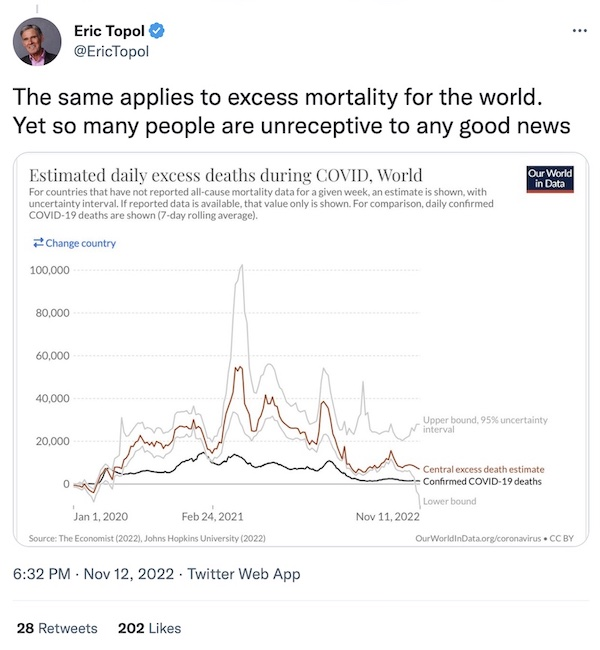
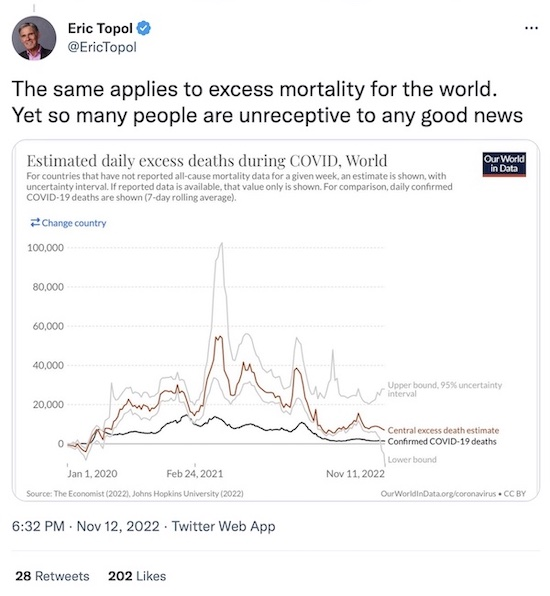
De-twitter with screenshots and links, in case Twitter goes down in flames

diff --git a/_posts/2022-08-31-fda-bivalent-omicron-eua.md b/_posts/2022-08-31-fda-bivalent-omicron-eua.md
@@ -15,15 +15,7 @@ bivalent COVID-19 vaccines for classic and Omicron/BA.4/5 variants.
 The redoubtable Helen Branswell and Matthew Herper of _STAT News_ are on the case.
 Branswell's tweet first alerted us:  
 
-<blockquote class="twitter-tweet">
-  <p lang="en" dir="ltr">
-    .<a href="https://twitter.com/US_FDA?ref_src=twsrc%5Etfw">@US_FDA</a> has issued EUAs
-	for the updated Pfizer and Moderna Covid boosters, the bivalent shots containing an
-	Omicron strain. <a href="https://twitter.com/matthewherper?ref_src=twsrc%5Etfw">@matthewherper</a>
-	reports. <a href="https://t.co/MgcyuqYTE0">https://t.co/MgcyuqYTE0</a> 
-  </p>&mdash; Helen Branswell 🇺🇦 (@HelenBranswell) <a href="https://twitter.com/HelenBranswell/status/1564976001217695747?ref_src=twsrc%5Etfw">August 31, 2022</a>
-</blockquote>
-<script async src="https://platform.twitter.com/widgets.js"></script>
+<a href="https://twitter.com/HelenBranswell/status/1564976001217695747"><img src="{{ site.baseurl }}/images/2022-08-31-fda-bivalent-omicron-eua-twitter-1.jpg" width="550" height="661" alt="Branswell @ Twitter: FDA EUA's bivalent vaccines" title="Branswell @ Twitter: FDA EUA's bivalent vaccines"></a>
 
 <img src="{{ site.baseurl }}/images/2022-08-31-fda-bivalent-omicron-eua-stat-1.jpg" width="400" height="188" alt="Herper @ STAT News: FDA EUA's bivalent classic/Omicron COVID-19 vaccine boosters" title="Herper @ STAT News: FDA EUA's bivalent classic/Omicron COVID-19 vaccine boosters" style="float: right; margin: 3px 3px 3px 3px; border: 1px solid #000000;">
 <img src="{{ site.baseurl }}/images/2022-08-31-fda-bivalent-omicron-eua-fda-1.jpg" width="400" height="341" alt="FDA: EUA of bivalent classic/Omicron COVID-19 vaccine boosters" title="FDA: EUA of bivalent classic/Omicron COVID-19 vaccine boosters" style="float: right; margin: 3px 3px 3px 3px; border: 1px solid #000000;">
@@ -103,17 +95,10 @@ But then&hellip; vax us up!
 
 ## Addendum 2022-Aug-31, afternoon  
 
-Eric Topol points out a preprint that dropped on _medR&chi;iv_ today <sup id="fn5a">[[5]](#fn5)</sup>:  
+The indispensable Eric Topol points out a preprint that dropped on _medR&chi;iv_
+today <sup id="fn5a">[[5]](#fn5)</sup>:  
 
-<blockquote class="twitter-tweet">
-  <p lang="en" dir="ltr">
-    Relevant to new BA.5 boosters for people with recent infection &lt; 2 months<br>
-    &quot;B-cell responses to booster vaccines are impeded by recent infection&quot;
-    <a href="https://t.co/DPVUaDpbOJ">https://t.co/DPVUaDpbOJ</a>
-    <a href="https://t.co/ukCiEzSIi2">pic.twitter.com/ukCiEzSIi2</a>
-  </p>&mdash; Eric Topol (@EricTopol) <a href="https://twitter.com/EricTopol/status/1565007310551801856?ref_src=twsrc%5Etfw">August 31, 2022</a>
-</blockquote>
-<script async src="https://platform.twitter.com/widgets.js"></script>
+<a href="https://twitter.com/EricTopol/status/1565007310551801856"><img src="{{ site.baseurl }}/images/2022-08-31-fda-bivalent-omicron-eua-twitter-2.jpg" width="550" height="664" alt="Topol @ Twitter: Recent infection impairs vaccine response" title="Topol @ Twitter: Recent infection impairs vaccine response"></a>
 
 So basically recent (&lt; 2 months) COVID-19 infection impairs B-cell responses induced by
 the new BA.5 booster.  
@@ -134,19 +119,7 @@ Our trusty safari guide, Helen Branswell of _STAT News_, is live-tweeting the me
 the CDC Advisory Committee on Immunization Practices to set practice recommendations for
 the bivalent classic/Omicron vaccines:  
 
-<blockquote class="twitter-tweet">
-  <p lang="en" dir="ltr">
-    1. <a href="https://twitter.com/hashtag/ACIP?src=hash&amp;ref_src=twsrc%5Etfw">#ACIP</a> is
-	meeting today to decide on whether to recommend use of the the bivalent Covid
-	vaccines. It was first posted as a 2-day meeting but they now expect it to be a 1-day
-	meeting.<br>
-
-    I will be live tweeting.<br>
-
-    The meeting is being streamed here: <a href="https://t.co/rsFDXVwBUY">https://t.co/rsFDXVwBUY</a> 
-  </p>&mdash; Helen Branswell 🇺🇦 (@HelenBranswell) <a href="https://twitter.com/HelenBranswell/status/1565339759068991494?ref_src=twsrc%5Etfw">September 1, 2022</a>
-</blockquote>
-<script async src="https://platform.twitter.com/widgets.js"></script>
+<a href="https://twitter.com/HelenBranswell/status/1565339759068991494"><img src="{{ site.baseurl }}/images/2022-08-31-fda-bivalent-omicron-eua-twitter-3.jpg" width="550" height="527" alt="Branswell @ Twitter: CDC ACIP meeting" title="Branswell @ Twitter: CDC ACIP meeting"></a>
 
 I'm not gonna trawl through all the primary presentations myself, this time.
 (Post-COVID-19 brain fog, you know.  But if you want to make your own deep dive, then top
@@ -258,15 +231,7 @@ Some interesting highlights from her Twitter thread:
 And, that's it: approval 13-1 with 1 absence, and a reasonable set of practice
 guidelines for both vaccines:  
 
-<blockquote class="twitter-tweet">
-  <p lang="en" dir="ltr">
-    62. <a href="https://twitter.com/hashtag/ACIP?src=hash&amp;ref_src=twsrc%5Etfw">#ACIP</a>
-	votes 13 - 1 to recommend use of the Moderna bivalent Covid booster for people 18 and older. <br>
-
-    The only person who voted against was Pablo Sánchez. <a href="https://t.co/CgdHKOrrPN">pic.twitter.com/CgdHKOrrPN</a>
-  </p>&mdash; Helen Branswell 🇺🇦 (@HelenBranswell) <a href="https://twitter.com/HelenBranswell/status/1565456899151208451?ref_src=twsrc%5Etfw">September 1, 2022</a>
-</blockquote>
-<script async src="https://platform.twitter.com/widgets.js"></script>
+<a href="https://twitter.com/HelenBranswell/status/1565456899151208451"><img src="{{ site.baseurl }}/images/2022-08-31-fda-bivalent-omicron-eua-twitter-4.jpg" width="550" height="970" alt="Branswell @ Twitter: CDC ACIP votes on bivalent vaccines" title="Branswell @ Twitter: CDC ACIP votes on bivalent vaccines"></a>
 
 Honestly, I was _really_ surprised they worried so much about a human trial,
 in spite of the fact that _this very committee_ handles flu vaccine updates every year in
@@ -317,13 +282,7 @@ past our (current) COVID-19 recovery!
 All my American readers of a certain age were thinking this.  But Branswell decided to
 just go ahead &amp; say the quiet part out loud in tweet #63:  
 
-<blockquote class="twitter-tweet">
-  <p lang="en" dir="ltr">
-    63. <a href="https://twitter.com/hashtag/ACIP?src=hash&amp;ref_src=twsrc%5Etfw">#ACIP</a>
-    is done! <a href="https://t.co/CeuyndzRdG">pic.twitter.com/CeuyndzRdG</a>
-  </p>&mdash; Helen Branswell 🇺🇦 (@HelenBranswell) <a href="https://twitter.com/HelenBranswell/status/1565459059809083392?ref_src=twsrc%5Etfw">September 1, 2022</a>
-</blockquote>
-<script async src="https://platform.twitter.com/widgets.js"></script>
+<a href="https://twitter.com/HelenBranswell/status/1565459059809083392"><img src="{{ site.baseurl }}/images/2022-08-31-fda-bivalent-omicron-eua-twitter-5.jpg" width="550" height="1036" alt="Branswell @ Twitter: That's all, folks?!" title="Branswell @ Twitter: That's all, folks?!"></a>
 
 Sums it up.  
 

diff --git a/_posts/2022-08-29-authoritarian-cops.md b/_posts/2022-08-29-authoritarian-cops.md
@@ -208,16 +208,9 @@ some news items from just this month:
   Here's one person re-Tweeting it, to preserve the evidence (__NB:__ disturbing video of
   3 cops holding down a handcuffed prisoner, beating his head against concrete):  
 
-  <blockquote class="twitter-tweet">
-    <p lang="en" dir="ltr">
-      This just went down in Mulberry, AR, unfortunately, due to DMCA rules i had to mute
-      the video (metallic was playing in the background) the people filming screamed at the
-      cops towards the end they pretty much told them to shut up. will link the OP in the
-      next tweet.
-      <a href="https://t.co/cF3797sV0e">pic.twitter.com/cF3797sV0e</a>
-    </p>&mdash; 🥀_Imposter_🕸 (@Imposter_Edits) <a href="https://twitter.com/Imposter_Edits/status/1561473046833233920?ref_src=twsrc%5Etfw">August 21, 2022</a>
-  </blockquote>
- <script async src="https://platform.twitter.com/widgets.js"></script>
+  <a href="https://twitter.com/Imposter_Edits/status/1561473046833233920">
+	<img src="{{ site.baseurl }}/images/2022-08-29-authoritarian-cops-twitter-1.jpg" width="550" height="860" alt="Twitter: cops beating handcuffed prisoner" title="Twitter: cops beating handcuffed prisoner">
+  </a>
 
   Note at the end of the video how quickly the "subject stopped resisting" once the cops
   figured out they were on video.  
@@ -347,13 +340,7 @@ When many people say things like that, you can dismiss it as just some political
 But when people whose _profession_ is to determine threats against American democracy say
 things like that&hellip; then it may be time to start paying attention:  
 
-<blockquote class="twitter-tweet">
-  <p lang="en" dir="ltr">
-    I agree. And I was the CIA Director <a href="https://t.co/LRAHDDyy4n">https://t.co/LRAHDDyy4n</a>
-  </p>&mdash; Gen Michael Hayden (@GenMhayden) 
-  <a href="https://twitter.com/GenMhayden/status/1560027626626072577?ref_src=twsrc%5Etfw">August 17, 2022</a>
-</blockquote>
-<script async src="https://platform.twitter.com/widgets.js"></script>
+<a href="https://twitter.com/GenMhayden/status/1560027626626072577"><img src="{{ site.baseurl }}/images/2022-08-29-authoritarian-cops-twitter-2.jpg" width="550" height="231" alt="Gen Michael Hayden @ Twitter: Fmr CIA director agrees authoritarian cops are threat to US" title="Gen Michael Hayden @ Twitter: Fmr CIA director agrees authoritarian cops are threat to US"></a>
 
 Now, look: I have little sympathy for the US Central Intelligence Agency or for those who
 rise high in its ranks.  They tend to hit the Machiavelli and Nietzsche way too hard,
@@ -365,15 +352,7 @@ political office, not for any conceivable reason.
 
 An elegant summary, found on Twitter via RWK:  
 
-<blockquote class="twitter-tweet">
-  <p lang="en" dir="ltr">
-    The <a href="https://twitter.com/GOP?ref_src=twsrc%5Etfw">@gop</a> are playing g
-    games. Everyone vote. Action is American. Engagement is democracy.
-    <a href="https://t.co/M0amvBwfKf">https://t.co/M0amvBwfKf</a>
-    <a href="https://t.co/WNibvGnUry">pic.twitter.com/WNibvGnUry</a>
-  </p>&mdash; MacGregorGarlic (@MacGregorGarlic) <a href="https://twitter.com/MacGregorGarlic/status/1561738610344435714?ref_src=twsrc%5Etfw">August 22, 2022</a>
-</blockquote>
-<script async src="https://platform.twitter.com/widgets.js"></script>
+<a href="https://twitter.com/MacGregorGarlic/status/1561738610344435714"><img src="{{ site.baseurl }}/images/2022-08-29-authoritarian-cops-twitter-3.jpg" width="550" height="934" alt="Twitter: High voter turnout kills the GOP" title="Twitter: High voter turnout kills the GOP"></a>
 
 
 ## Addendum 2022-Aug-29, after getting some sleep  
@@ -405,14 +384,7 @@ He later pointed out that when discussing _actual_ Nazis and fascists, Godwin's 
 not apply. Here's what he had to say about Biden's characterization of the Trump wing of
 the Republican party as "semi-fascist":  
 
-<blockquote class="twitter-tweet">
-  <p lang="en" dir="ltr">
-    People have asked me my opinion of President Biden&#39;s criticism of
-	&quot;semi-fascism.&quot; Well, I can&#39;t overstate my disapproval of the
-	inappropriate use of &quot;semi.&quot;
-  </p>&mdash; Mike Godwin (@sfmnemonic) <a href="https://twitter.com/sfmnemonic/status/1563797677082415105?ref_src=twsrc%5Etfw">August 28, 2022</a>
-</blockquote>
-<script async src="https://platform.twitter.com/widgets.js"></script>
+<a href="https://twitter.com/sfmnemonic/status/1563797677082415105"><img src="{{ site.baseurl }}/images/2022-08-29-authoritarian-cops-twitter-4.jpg" width="550" height="279" alt="Godwin @ Twitter: Disapprove of 'semi' in 'semi-fascist' to describe Trump" title="Godwin @ Twitter: Disapprove of 'semi' in 'semi-fascist' to describe Trump"></a>
 
 Ok, good snark.  But what do _serious_ scholars of fascism think?  
 

diff --git a/_posts/2022-09-23-topol-variants.md b/_posts/2022-09-23-topol-variants.md
@@ -16,14 +16,9 @@ From the indispensable Eric Topol, of
 comes some timely if unwelcome news about variants and convergent evolution of the
 COVID-19 causing virus SARS-CoV2:  
 
-<blockquote class="twitter-tweet">
-  <p lang="en" dir="ltr">
-    Here <a href="https://twitter.com/SolidEvidence?ref_src=twsrc%5Etfw">@SolidEvidence</a>
-    has mapped out their evolutionary path with a convergence of several mutations 
-    <a href="https://t.co/XEfxyTn0n0">pic.twitter.com/XEfxyTn0n0</a> 
-  </p>&mdash; Eric Topol (@EricTopol) <a href="https://twitter.com/EricTopol/status/1573314055569559553?ref_src=twsrc%5Etfw">September 23, 2022</a>
-</blockquote>
-<script async src="https://platform.twitter.com/widgets.js"></script>
+<a href="https://twitter.com/EricTopol/status/1573314055569559553">
+  <img src="{{ site.baseurl }}/images/2022-09-23-topol-variants-twitter-1.jpg" width="550" height="1075" alt="Topol @ Twitter: SARS-COV2 evolutionary path with convergence of several mutations" title="Topol @ Twitter: SARS-COV2 evolutionary path with convergence of several mutations">
+</a>
 
 <a href="{{ site.baseurl }}/images/2022-09-23-topol-variants-cdc-1.jpg"><img src="{{ site.baseurl }}/images/2022-09-23-topol-variants-cdc-1-thumb.jpg" width="400" height="303" alt="US CDC COVID-19 Data Tracker: Variants as of 2022-Sep-23" title="US CDC COVID-19 Data Tracker: Variants as of 2022-Sep-23" style="float: right; margin: 3px 3px 3px 3px; border: 1px solid #000000;"></a>
 He's quoting the nowcast data from the US Centers for Disease Control and Prevention's

diff --git a/_posts/2022-11-02-two-things-i-dont-understand.md b/_posts/2022-11-02-two-things-i-dont-understand.md
@@ -14,19 +14,18 @@ Sometimes there's nothing to do but confess one's own ignorance.
 In the last couple days, while hiding in bed avoiding my fear of a fascist turn in the
 upcoming mid-terms, a couple things have _really_ confused me:  
 
+
 1. Have you ever noticed that when you look up
    ["ineffable"](https://en.wikipedia.org/wiki/Ineffability) in the dictionary, they
    explain it by just _using more words?_  That seems wrong, somehow.  Wittgenstein had right:
    [_Wovon man nicht sprechen kann, darüber muss man schweigen,_](https://en.wikipedia.org/wiki/Tractatus_Logico-Philosophicus#Proposition_7)
-   indeed!
+   indeed!  
 2. Indeed, I will never understand economics:  
-<blockquote class="twitter-tweet">
-  <p lang="en" dir="ltr">
-    Stg long as I live I will never understand economics
-    <a href="https://t.co/7OHub5hMqN">pic.twitter.com/7OHub5hMqN</a>
-  </p>&mdash; That Sheila Strewth 🏳⚧ (@StrewthQueen) <a href="https://twitter.com/StrewthQueen/status/1587686455580557312?ref_src=twsrc%5Etfw">November 2, 2022</a>
-</blockquote>
-<script async src="https://platform.twitter.com/widgets.js"></script>
+
+<img src="{{ site.baseurl }}/images/2022-11-02-two-things-i-dont-understand-twitter-1.jpg" width="550" height="319" alt="Lions break free; interest rate rises" title="Lions break free; interest rate rises">
+
+(Quoted from Twitter, now mysteriously removed from all sources that Google can find.
+Looks like some Australian mogul got mad about being made to look like a fool?)  
 
 ---
 

diff --git a/_posts/2022-09-26-petrov-day-2022.md b/_posts/2022-09-26-petrov-day-2022.md
@@ -23,16 +23,9 @@ _heroic_ people, at that.
 
 The hero we remember today is [Stanislav Petrov](https://en.wikipedia.org/wiki/Stanislav_Petrov):  
 
-<blockquote class="twitter-tweet">
-  <p lang="en" dir="ltr">
-    Just past midnight today in 1983, thanks to "a funny feeling in my gut," 44 year-old
-	Lt. Col. Stanislav Petrov's calm assessment that a satellite warning of the launch of
-	five US Minuteman ICBMs was a false alarm likely averted a catastrophic nuclear
-	war. <a href="https://t.co/J5MrBr3XAO">https://t.co/J5MrBr3XAO</a>
-    <a href="https://t.co/2sPO4KDqON">pic.twitter.com/2sPO4KDqON</a>
-  </p>&mdash; Stephen Schwartz (@AtomicAnalyst) <a href="https://twitter.com/AtomicAnalyst/status/1442136321594511365?ref_src=twsrc%5Etfw">September 26, 2021</a>
-</blockquote> 
-<script async src="https://platform.twitter.com/widgets.js"></script>
+<a href="https://twitter.com/AtomicAnalyst/status/1442136321594511365">
+  <img src="{{ site.baseurl }}/images/2022-09-26-petrov-day-2022-twitter-1.jpg" width="550" height="859" alt="Schwartz @ Twitter: Petrov Day" title="Schwartz @ Twitter: Petrov Day">
+</a>
 
 He did the _right_ thing, not the thing he was asked.  We should celebrate this as a
 virtue.  (As we have, here on this Crummy Little Blog That Nobody Reads, a couple times

diff --git a/_posts/2022-08-04-covid-rebound.md b/_posts/2022-08-04-covid-rebound.md
@@ -262,14 +262,7 @@ say 7-10 days to tamp down on the rebounds:
   indicates, we have even more severe problems pounding the facts into MD skulls
   about how well paxlovid works:  
 
-<blockquote class="twitter-tweet">
-  <p lang="en" dir="ltr">
-    Bob, it's not a "risk" - it's real life. I spoke to several people in Florida recently
-    (not calling out Florida specifically - just telling a story), who couldn’t find a single
-    doctor who would prescribe Paxlovid, because "it doesn’t work&hellip;" 
-  </p>&mdash; Jerome Adams (@JeromeAdamsMD) <a href="https://twitter.com/JeromeAdamsMD/status/1553526582245048321?ref_src=twsrc%5Etfw">July 30, 2022</a>
-</blockquote>
-<script async src="https://platform.twitter.com/widgets.js"></script>
+<a href="https://twitter.com/JeromeAdamsMD/status/1553526582245048321"><img src="{{ site.baseurl }}/images/2022-08-04-covid-rebound-twitter-1.jpg" width="550" height="448" alt="Wachter &amp; Adams @ Twitter: Docs not prescribing paxlovid due to misinformation" title="Wachter &amp; Adams @ Twitter: Docs not prescribing paxlovid due to misinformation"></a>
 
 Maybe we need to make sure we've done at least some of the provider education needed to
 counteract disinformation and rumor, so providers will actually prescribe it, first.  

diff --git a/_posts/2022-11-12-some-covid-good-news.md b/_posts/2022-11-12-some-covid-good-news.md
@@ -14,7 +14,7 @@ We just _may_ be turning the corner.
 The indispensable [Eric Topol](https://en.wikipedia.org/wiki/Eric_Topol) draws our
 attention to the global excess mortality situation:  
 
-<a href="https://twitter.com/EricTopol/status/1591574800925097985"><img src="{{ site.baseurl }}/images/2022-11-12-some-covid-good-news-topol-1.jpg" width="600" height="650" alt="Eric Topol @ Twitter: Global excess mortality" title="Eric Topol @ Twitter: Global excess mortality"></a>
+<a href="https://twitter.com/EricTopol/status/1591574800925097985"><img src="{{ site.baseurl }}/images/2022-11-12-some-covid-good-news-topol-1.jpg" width="550" height="596" alt="Eric Topol @ Twitter: Global excess mortality" title="Eric Topol @ Twitter: Global excess mortality"></a>
 
 First, let's talk about
 [excess mortality](https://ourworldindata.org/excess-mortality-covid#what-is-excess-mortality).
